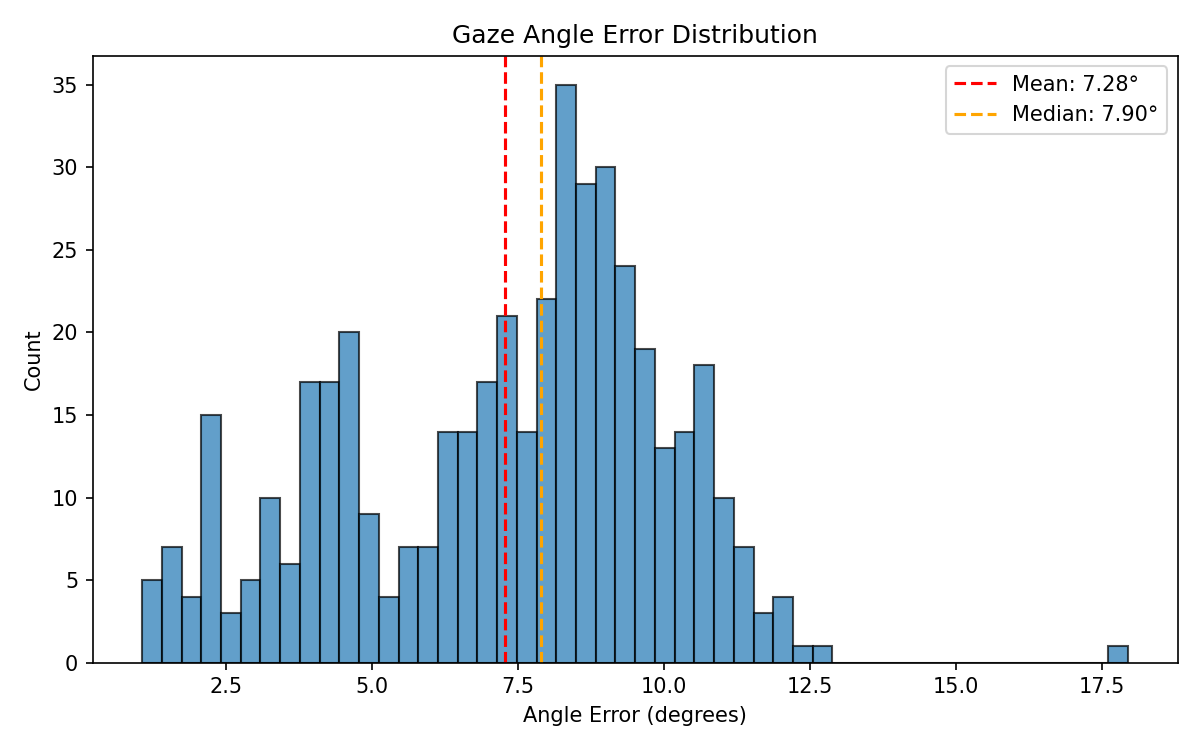
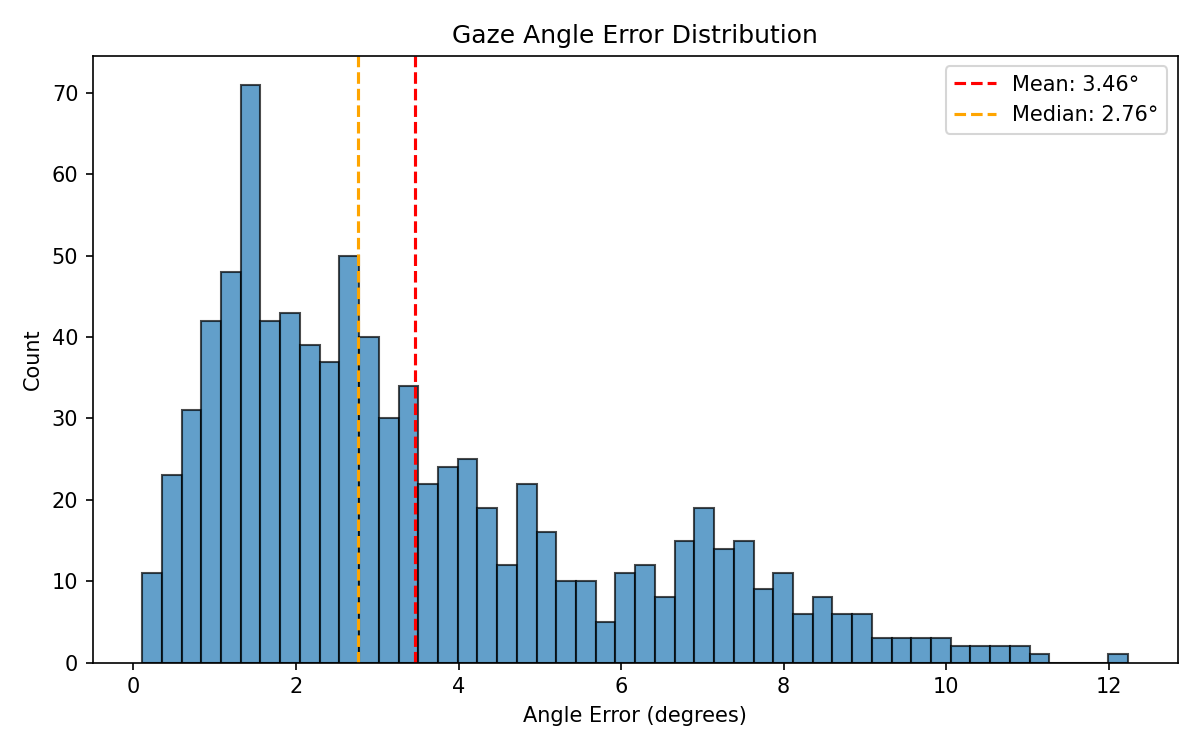
eval: 更新评估脚本支持 GazeNetV2 模型与扩展测试集
- 升级 evaluate.py 支持 GazeNetV2 双眼融合架构，自动检测模型版本
- 实现模型版本检测机制，兼容 v1 和 v2 checkpoint 格式
- 扩展评估数据集从 447 样本到 868 样本，提升评估覆盖率
- 改进评估指标：平均角度误差从 7.28° 降低至 3.46°
- 更新评估可视化图表（误差直方图、热力图、会话误差分析）
- 优化模型加载逻辑，支持 checkpoint 中的配置优先级

diff --git a/scripts/evaluate.py b/scripts/evaluate.py
@@ -26,7 +26,7 @@ import yaml
 # 将 src 加入路径
 sys.path.insert(0, str(Path(__file__).resolve().parent.parent / "src"))
 
-from models.gaze_net import GazeNet
+from models.gaze_net import GazeNet, GazeNetV2
 from models.losses import angular_loss
 from data.dataset import GazeDataset
 
@@ -43,24 +43,51 @@ def load_config(config_path: str) -> dict:
         return yaml.safe_load(f)
 
 
-def load_model(checkpoint_path: str, config: dict) -> GazeNet:
-    """从 checkpoint 加载模型。"""
-    model_cfg = config.get("model", {})
-    channels = model_cfg.get("channels", [32, 64, 128, 256])
-    model = GazeNet(num_channels=channels)
+def load_model(checkpoint_path: str, config: dict) -> tuple:
+    """从 checkpoint 加载模型，自动检测 v1/v2 版本。
 
+    返回:
+        (model, model_version) 元组
+    """
     ckpt = torch.load(checkpoint_path, map_location="cpu", weights_only=False)
-    model.load_state_dict(ckpt["model_state_dict"])
+
+    # 检测模型版本
+    model_version = "v1"
+    ckpt_config = {}
+    if isinstance(ckpt, dict):
+        model_version = ckpt.get("model_version", "v1")
+        ckpt_config = ckpt.get("config", {})
+
+    # 合并配置：checkpoint 中的配置优先
+    model_cfg = ckpt_config.get("model", config.get("model", {}))
+    channels = model_cfg.get("channels", [32, 64, 128, 256])
+
+    if model_version == "v2":
+        model = GazeNetV2(
+            num_channels=channels,
+            head_pose_dim=model_cfg.get("head_pose_dim", 3),
+            fusion_dim=model_cfg.get("fusion_dim", 128),
+            dropout=model_cfg.get("dropout", 0.3),
+        )
+    else:
+        model = GazeNet(num_channels=channels)
+
+    if isinstance(ckpt, dict) and "model_state_dict" in ckpt:
+        model.load_state_dict(ckpt["model_state_dict"])
+    else:
+        model.load_state_dict(ckpt)
+
     model.eval()
 
-    logger.info(f"已加载模型: {checkpoint_path}")
-    return model
+    logger.info(f"已加载模型: {checkpoint_path} (版本: {model_version})")
+    return model, model_version
 
 
 @torch.no_grad()
 def evaluate_on_test(
-    model: GazeNet,
+    model,
     test_loader: DataLoader,
+    model_version: str = "v1",
     screen_w: int = 1536,
     screen_h: int = 864,
 ) -> dict:
@@ -78,11 +105,18 @@ def evaluate_on_test(
     all_true_ny = []
 
     for batch in test_loader:
-        eye_imgs = batch["eye_img"]
         gaze_targets = batch["gaze"]
         meta = batch["meta"]
 
-        preds = model(eye_imgs)
+        # 根据模型版本选择输入
+        if model_version == "v2":
+            left_eye = batch["left_eye"]
+            right_eye = batch["right_eye"]
+            head_pose = batch["head_pose"]
+            preds = model(left_eye, right_eye, head_pose)
+        else:
+            eye_imgs = batch["eye_img"]
+            preds = model(eye_imgs)
 
         # 逐样本计算角度误差
         for i in range(preds.shape[0]):
@@ -233,7 +267,7 @@ def main():
     data_cfg = config.get("data", {})
 
     # 加载模型
-    model = load_model(args.checkpoint, config)
+    model, model_version = load_model(args.checkpoint, config)
 
     # 加载测试数据
     processed_dir = Path(data_cfg.get("dataset_processed_dir", "dataset_processed"))
@@ -247,11 +281,11 @@ def main():
     df = pd.read_csv(labels_path)
     logger.info(f"测试集: {len(df)} 样本")
 
-    test_ds = GazeDataset(df, image_root=test_dir, augment=False)
+    test_ds = GazeDataset(df, image_root=test_dir, augment=False, model_version=model_version)
     test_loader = DataLoader(test_ds, batch_size=64, shuffle=False, num_workers=0)
 
     # 评估
-    results = evaluate_on_test(model, test_loader)
+    results = evaluate_on_test(model, test_loader, model_version=model_version)
     metrics = results["metrics"]
 
     logger.info("=== 评估结果 ===")
